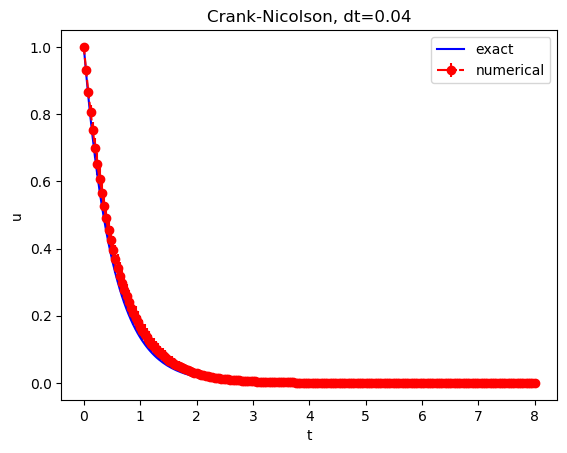
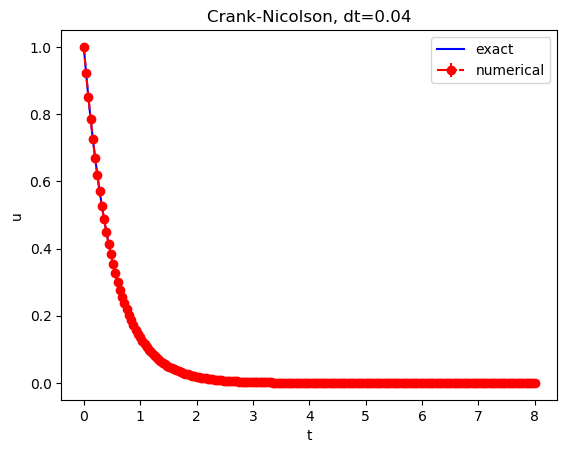
Begin Chapter 2

Changed region(s): [[0.1499, 0.1236, 0.4497, 0.8653], [0.4797, 0.8344, 0.5097, 0.8653]]

diff --git a/chap2.py b/chap2.py
@@ -1,0 +1,109 @@
+#! /usr/bin/env python3
+
+r"""
+Notes from Chapter 2 of Hans Petter Langtangen's book "Finite Difference
+Computing with Exponential Decay Models".
+
+Problem formulation: Using finite difference methods find u(t) such that:
+          u'(t) = -a u(t)     a > 0     t ∈ (0, T]     u(0) = I       (1)
+
+"""
+
+import numpy as np
+from matplotlib import pyplot as plt
+
+from utils.solver import solver
+
+
+__all__ = ['investigations']
+
+IMGDIR = './img/chap2/'
+"""Path to store images."""
+STR_FMT = '{0}\n{1}\n'
+"""String formatting for printing to standard output."""
+
+
+def investigations() -> None:
+    """
+    Experimental investigations of numerical instability.
+
+    Notes
+    ----------
+    The characteristics shown in the produced figures can be summarised as
+    follows:
+    - The Backward Euler scheme gives a monotone solution in all cases, lying
+      above the exact curve.
+    - The Crank-Nicolson scheme gives the most accurate results, but for
+      Δt = 1.25 the solution oscillates.
+    - The Forward Euler scheme gives a growing, oscillating solution for
+      Δt = 1.25; a decaying, oscillating solution for Δt = 0.75; strange
+      solution uⁿ = 0 for n ≥ 1 when Δt = 0.5; and a solution seemingly as
+      accurate as the one by Backward Euler scheme for Δt = 0.1, but the curve
+      lies below the exact solution.
+
+    Key questions
+    - Under what circumstances, i.e., values of the input data I, a, and in Δt
+      will Forward Euler and Crank-Nicolson schemes results in undesired
+      oscillatory solutions?
+    - How does Δt impact the error in the numerical solution?
+
+    """
+    I = 1
+    a = 2
+    T = 6
+
+    th_dict = {0: ('Forward Euler', 'fe'), 1: ('Backward Euler', 'be'),
+               0.5: ('Crank-Nicolson', 'cn')}
+
+    for th in th_dict.keys():
+        fig, axs = plt.subplots(
+            2, 2, figsize=(10, 8), gridspec_kw={'hspace': 0.3}
+        )
+        for dt_idx, dt in enumerate((1.25, 0.75, 0.5, 0.1)):
+            ax = axs.flat[dt_idx]
+            ax.set_title('{}, dt={:g}'.format(th_dict[th][0], dt))
+            ax.set_ylim(0, 1)
+            ax.set_xlim(0, T)
+            ax.set_xlabel('t')
+            ax.set_ylabel('u')
+
+            # Solve
+            u, t = solver(I=I, a=a, T=T, dt=dt, theta=th)
+
+            # Calculate exact solution
+            u_exact = lambda t, I, a: I * np.exp(-a * t)
+            t_e = np.linspace(0, T, 1001)
+            u_e = u_exact(t_e, I, a)
+
+            # Plot with red dashes w/ circles
+            ax.plot(t, u, 'r--o', label='numerical')
+
+            # Plot with blue line
+            ax.plot(t_e, u_e, 'b-', label='exact')
+            ax.legend()
+
+        # Save figure
+        fig.savefig(IMGDIR + f'{th_dict[th][1]}.png', bbox_inches='tight')
+
+
+def main() -> None:
+    """Main program, used when run as a script."""
+    import argparse
+    parser = argparse.ArgumentParser(
+        description=
+        'Finite Difference Computing with Exponential Decay Models - Chapter 2'
+    )
+    parser.add_argument('functions', nargs='*', help=f'Choose from {__all__}')
+    args = parser.parse_args()
+
+    functions = args.functions if args.functions else __all__
+    for f in functions:
+        if f not in __all__:
+            raise ValueError(f'Invalid function "{f}" (choose from {__all__})')
+        print('------', f'\nRunning "{f}"')
+        globals()[f]()
+        print('------')
+
+
+if __name__ == "__main__":
+    main()

diff --git a/chap1.py b/chap1.py
@@ -496,36 +496,7 @@ def unifying() -> None:
                   [Dₜ u]ⁿ⁺¹⸍² = θ [-a u]ⁿ⁺¹ + (1 - θ) [-a u]ⁿ
 
     """
-    # Define solver function
-    def solver(I: float, a: float, T: float, dt: float, theta: float):
-        """Solve u'=-a*u, u(0)=I, for t in (0,T] with steps of dt.
-
-        Parameters
-        ----------
-        I : Initial condition.
-        a : Constant coefficient.
-        T : Maximum time to compute to.
-        dt : Step size.
-        theta : theta=0 corresponds to FE, theta=0.5 to CN and theta=1 to BE.
-
-        Returns
-        ----------
-        u : Mesh function.
-        t : Mesh points.
-
-        """
-        # Initialise data structures
-        Nt = int(T / dt)      # Number of time intervals
-        u = np.zeros(Nt + 1)  # Mesh function
-        t = np.linspace(0, Nt * dt, Nt + 1) # Mesh points
-
-        # Calculate mesh function using difference equation
-        # (uⁿ⁺¹ - uⁿ) / (t{n+1} - tn) = -a (θ uⁿ⁺¹ + (1 - θ) uⁿ)
-        u[0] = I
-        for n_idx in range(Nt):
-            u[n_idx + 1] = (1 - (1 - theta) * a * dt) / \
-                (1 + theta * a * dt) * u[n_idx]
-        return u, t
+    from utils.solver import solver
 
     I = 1
     a = 2
@@ -604,43 +575,14 @@ def numerical_error() -> None:
                         E = √(Δt ∑₀ᴺᵗ (eⁿ)²)
 
     """
-    # Define solver function
-    def solver(I: float, a: float, T: float, dt: float, theta: float):
-        """Solve u'=-a*u, u(0)=I, for t in (0,T] with steps of dt.
-
-        Parameters
-        ----------
-        I : Initial condition.
-        a : Constant coefficient.
-        T : Maximum time to compute to.
-        dt : Step size.
-        theta : theta=0 corresponds to FE, theta=0.5 to CN and theta=1 to BE.
-
-        Returns
-        ----------
-        u : Mesh function.
-        t : Mesh points.
-
-        """
-        # Initialise data structures
-        Nt = int(T / dt)      # Number of time intervals
-        u = np.zeros(Nt + 1)  # Mesh function
-        t = np.linspace(0, Nt * dt, Nt + 1) # Mesh points
-
-        # Calculate mesh function using difference equation
-        # (uⁿ⁺¹ - uⁿ) / (t{n+1} - tn) = -a (θ uⁿ⁺¹ + (1 - θ) uⁿ)
-        u[0] = I
-        for n_idx in range(Nt):
-            u[n_idx + 1] = (1 - (1 - theta) * a * dt) / \
-                (1 + theta * a * dt) * u[n_idx]
-        return u, t
+    from utils.solver import solver
 
     I = 1
     a = 2
     T = 8
 
     th_dict = {0: ('Forward Euler', 'fe'), 1: ('Backward Euler', 'be'),
-               2: ('Crank-Nicolson', 'cn')}
+               0.5: ('Crank-Nicolson', 'cn')}
 
     for th in th_dict.keys():
         print('theta = {:g}'.format(th))

diff --git a/utils/solver.py b/utils/solver.py
@@ -1,0 +1,40 @@
+"""
+Solver functions
+
+"""
+
+import numpy as np
+
+
+__all__ = ['solver']
+
+
+def solver(I: float, a: float, T: float, dt: float, theta: float):
+    """Solve u'=-a*u, u(0)=I, for t in (0,T] with steps of dt.
+
+    Parameters
+    ----------
+    I : Initial condition.
+    a : Constant coefficient.
+    T : Maximum time to compute to.
+    dt : Step size.
+    theta : theta=0 corresponds to FE, theta=0.5 to CN and theta=1 to BE.
+
+    Returns
+    ----------
+    u : Mesh function.
+    t : Mesh points.
+
+    """
+    # Initialise data structures
+    Nt = int(T / dt)      # Number of time intervals
+    u = np.zeros(Nt + 1)  # Mesh function
+    t = np.linspace(0, Nt * dt, Nt + 1) # Mesh points
+
+    # Calculate mesh function using difference equation
+    # (uⁿ⁺¹ - uⁿ) / (t{n+1} - tn) = -a (θ uⁿ⁺¹ + (1 - θ) uⁿ)
+    u[0] = I
+    for n_idx in range(Nt):
+        u[n_idx + 1] = (1 - (1 - theta) * a * dt) / \
+            (1 + theta * a * dt) * u[n_idx]
+    return u, t

diff --git a/README.md b/README.md
@@ -10,6 +10,9 @@ Notes from Langtangen's "Finite Difference Computing with Exponential Decay Mode
     * The Backward Euler scheme
     * The Crank-Nicolson scheme
     * The unifying / theta-rule
+    * Numerical Error
+2. **Analysis**
+    * Experimental investigations
 
 ### Dependencies
 * [`Python`](https://www.python.org/) >= 3.7
